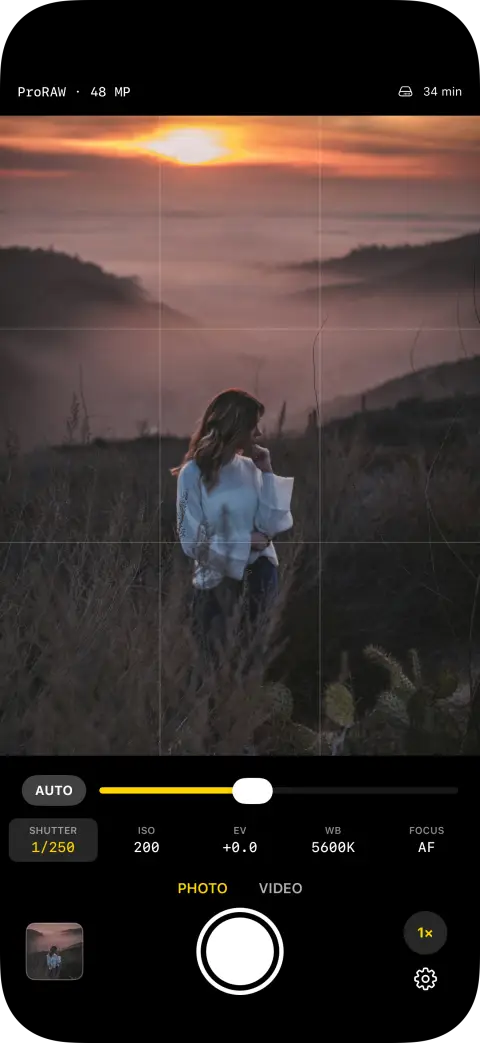
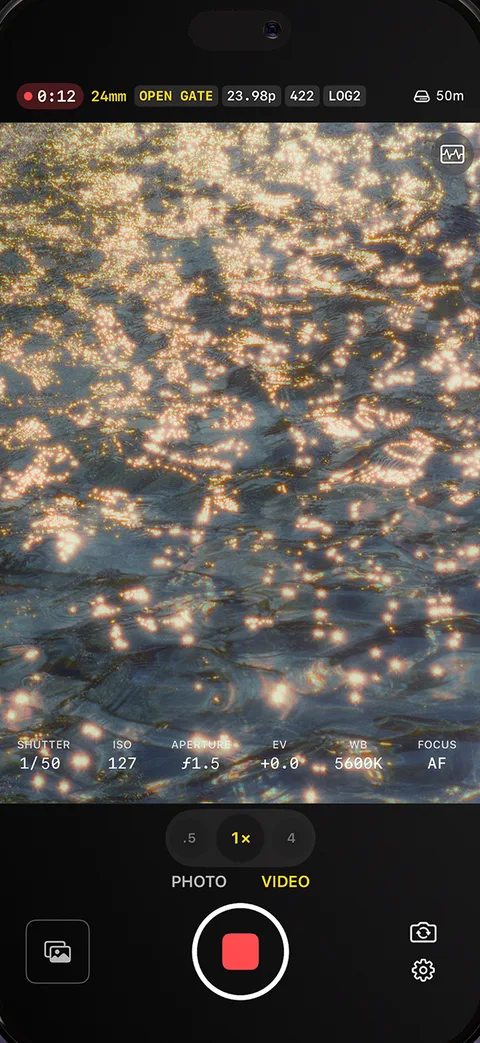
Use the App Store screenshot for Rubin
The hub page still showed the old SensorCam beta capture. The new image
is the app screen cropped out of App Store screenshot 2 (straight-on
phone, recording open gate in Apple Log 2), at the site's 480x1043 size.

diff --git a/rubin/index.html b/rubin/index.html
@@ -55,7 +55,7 @@
   <img class="on-dark" src="/notehunter/img/app-store-badge-white.svg" alt="Download Rubin on the App Store" width="132" height="44"></a>
   <span class="qr"><img src="/img/qr/rubin.svg" alt="" width="84" height="84" style="background:#fff;padding:6px;border-radius:8px"> Scan to open on your iPhone</span></div>
   </section>
-  <div class="hub-shots reveal"><div class="phone"><img src="/img/shots/rubin.webp" alt="The Rubin viewfinder in photo mode with manual exposure controls" width="480" height="1043" decoding="async"></div></div>
+  <div class="hub-shots reveal"><div class="phone"><img src="/img/shots/rubin.webp" alt="The Rubin viewfinder recording open gate video in Apple Log 2, with manual exposure controls" width="480" height="1043" decoding="async"></div></div>
   <section class="section prose" style="padding-top:1.5rem">
     <h2 id="support">Support, privacy and terms</h2>
     <dl class="facts">
